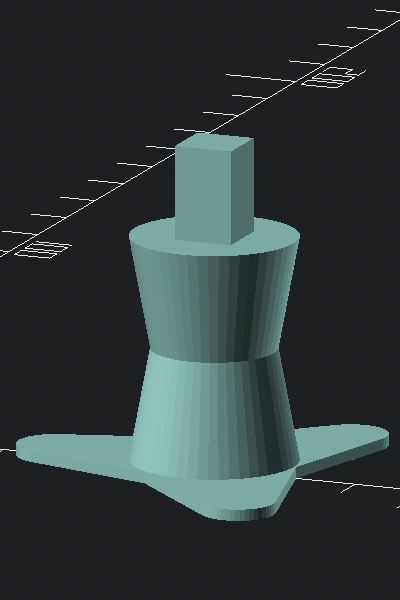
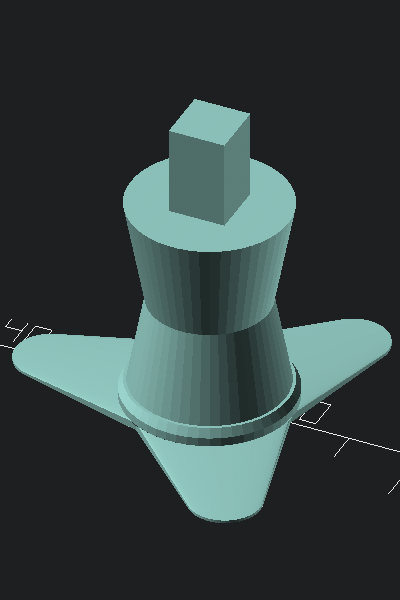
update with latest stem and organize README

diff --git a/coronavirus_spikes/README.md b/coronavirus_spikes/README.md
@@ -2,30 +2,45 @@
 
 Model of a coronavirus spike for use as a costume prop.
 
+The mortise-and-tenon joint is meant to be compatible among all forms that have it.
+
 ## two parts - shortened
 
-![shortened spike model 3D preview](img/spike_model__shortened.png)
+The stem in this reduced Z-dimension form is preferred.
 
 ![shortened spike model 3D preview - stem](img/spike_model__stem__shortened.png)
 
-![shortened spike model 3D preview - tip](img/spike_model__tip__shortened.png)
-
 [STL shortened spike model - stem](spike_model__stem__shortened.stl)
 
-[STL shortened spike model - tip](spike_model__tip__shortened.stl)
+## two parts - tip
 
-## two parts
-
-![spike model 3D preview - stem](img/spike_model__stem.png)
+Tip design without shortened Z-dimension.
 
 ![spike model 3D preview - tip](img/spike_model__tip.png)
-
-[STL shortened spike model - stem](spike_model__stem.stl)
 
 [STL shortened spike model - tip](spike_model__tip.stl)
 
 
-## monolithic
+### two parts - shortened - not recommended
+
+The tips are closer to pancakes when only Z-dimension is reduced
+
+[STL shortened spike model - tip](spike_model__tip__shortened.stl)
+
+![shortened spike model 3D preview - tip](img/spike_model__tip__shortened.png)
+
+![shortened spike model 3D preview](img/spike_model__shortened.png)
+
+
+### two parts - stem - not recommended
+
+Stem design before the Z-dimension was shortened. Not recommended unless longer stems are preferred.
+
+![spike model 3D preview - stem](img/spike_model__stem.png)
+
+[STL shortened spike model - stem](spike_model__stem.stl)
+
+### monolithic - not recommended
 
 ![spike model 3D preview](img/spike_model.png)
 
